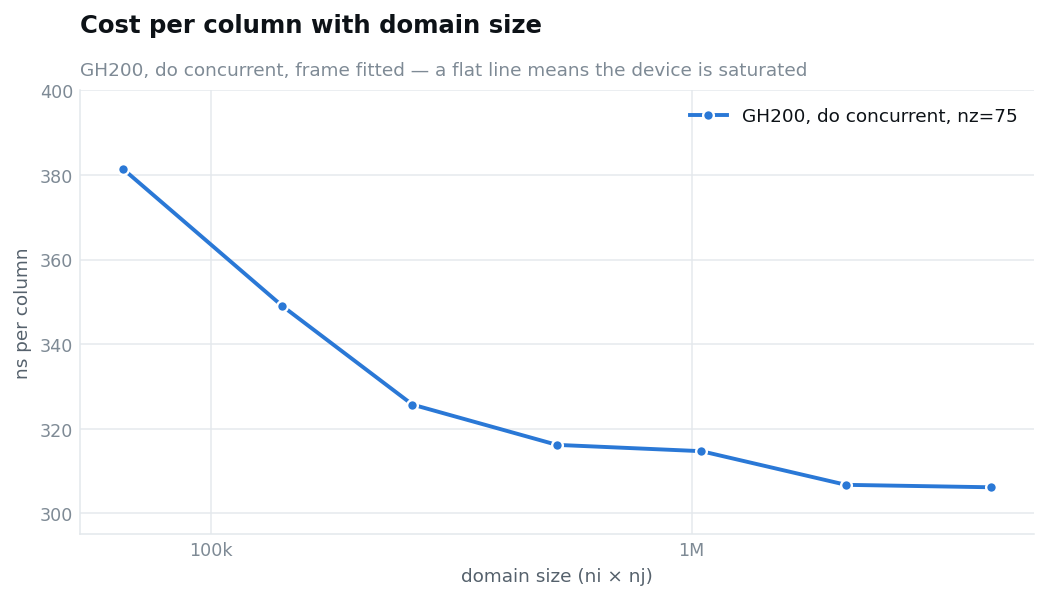
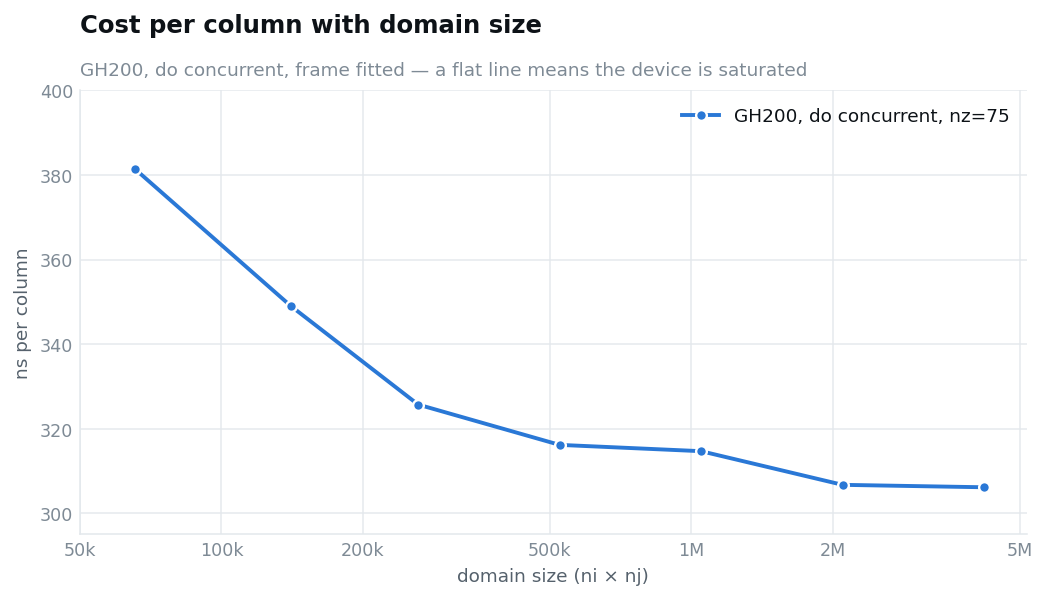
fig8: 1-2-5 x ticks instead of decades alone
Over 65k-4.2M a decade-only axis gave two labels, 100k and 1M, leaving the
reader to interpolate the other five points by eye on a log scale. Now
50k/100k/200k/500k/1M/2M/5M, with a formatter that handles the non-integer
cases (2.5M would have printed as 2M under the old int() truncation).

diff --git a/tools/ks_plot.py b/tools/ks_plot.py
@@ -419,8 +419,11 @@ def build(D, T, dark):
                     label=f"GH200, do concurrent, nz={D['grid'][k]['nz']}")
         allc = sorted({c for k in keys for c, _ in D["grid"][k]["pts"]})
         allv = [v for k in keys for _, v in D["grid"][k]["pts"]]
-        xs = [t for t in (1000, 10000, 100000, 1000000, 10000000)
-              if min(allc) * 0.6 <= t <= max(allc) * 1.6]
+        # 1-2-5 per decade rather than decades alone: over 65k-4.2M a
+        # decade-only axis gives two labels and the reader has to interpolate on
+        # a log scale by eye, which nobody does accurately.
+        xs = [c * 10 ** e for e in range(2, 9) for c in (1, 2, 5)
+              if min(allc) * 0.7 <= c * 10 ** e <= max(allc) * 1.4]
         ax.set_xscale("log")
         lo, hi = min(allv), max(allv)
         # LOG y only when the data spans enough to justify it. With one depth the
@@ -449,8 +452,11 @@ def build(D, T, dark):
                "GH200, do concurrent, frame fitted — a flat line means the device is saturated",
                "domain size (ni × nj)", "ns per column", xs)
         ax.set_xticks(xs)
-        ax.set_xticklabels([f"{int(t/1e6)}M" if t >= 1e6 else f"{int(t/1000)}k"
-                            for t in xs])
+        def _sz(t):
+            if t >= 1e6:
+                return f"{t/1e6:g}M"
+            return f"{t/1e3:g}k" if t >= 1000 else f"{t:g}"
+        ax.set_xticklabels([_sz(t) for t in xs])
         ax.legend(loc="upper right", ncols=1, fontsize=9.5)
         figs["fig8_gridsize"] = f
 
